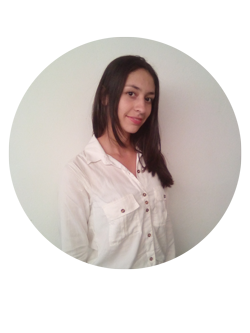
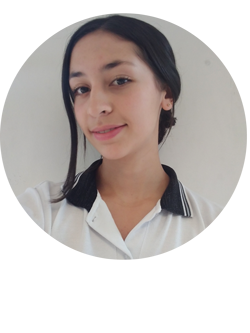
Se hizo la seccion de nosotros

diff --git a/creadores.html b/creadores.html
@@ -10,33 +10,39 @@
 	
 		
 		<section>
+			<div class="nubes">
+					<img src="img/nube1.png" alt="" class="nube nube1">
+					<img src="img/nube2.png" alt="" class="nube nube2">
+					<img src="img/nube3.png" alt="" class="nube nube3">
+					<img src="img/nube4.png" alt="" class="nube nube4">
+				</div>
 			<article class="tituloNosotros">
 				<h1 >Nosotros</h1>
 			</article>
 			<div class="creadores">
 				<article class="persona">
-					<img src="img/.png" alt="" class="foto">
-					<h3>Ana María Acevedo Henao</h3>
-					<p>anamariaacevedohenao@gmail.com</p>
-					<p>3148116848</p>
+					<img src="img/ana.png" alt="" class="foto">
+					<h3 class="ana">Ana María Acevedo Henao</h3>
+					<p class="ana">anamaria <br> acevedohenao@gmail.com</p>
+					<p class="ana">314 811 6848</p>
 				</article>
 				<article class="persona">
-					<img src="img/.png" alt="" class="foto">
+					<img src="img/mateo.png" alt="" class="foto">
 					<h3>Luis Mateo Cano Rojas</h3>
 					<p>luismateocanor@gmail.com</p>
-					<p>3104278887</p>
+					<p>310 427 8887</p>
 				</article>
 				<article class="persona">
-					<img src="img/.png" alt="" class="foto">
+					<img src="img/maria.png" alt="" class="foto">
 					<h3>Maria Elisa Muñoz Torres</h3>
-					<p>mariaelisa11@gmail.com</p>
-					<p>3215842780</p>
+					<p>mariaelisamt11@gmail.com</p>
+					<p>321 584 2780</p>
 				</article>
 				<article class="persona">
-					<img src="img/.png" alt="" class="foto">
+					<img src="img/andreu.png" alt="" class="foto">
 					<h3>Andreu Gutierrez López</h3>
 					<p>andreugutierrezlopez123@gmail.com</p>
-					<p>3045751093</p>
+					<p>304 575 1093</p>
 				</article>
 			</div>
 		</section>

diff --git a/css/estilos.css b/css/estilos.css
@@ -964,9 +964,11 @@ body{
 
 /*Creadores*/
 .fondoNosotros{
-	background: #52d8f7;
+	background: url(../img/fondo1.jpg);
 	width: 100%;
 	height: 100vh;
+	background-repeat:no-repeat;
+	background-size: cover;
 }
 .creadores{
 	display: flex;
@@ -974,18 +976,22 @@ body{
 	justify-content: space-between;
 	width: 80%;
 	margin: 0 auto;
+
 }
 .persona{
-	padding-left:15px;
-	padding-right: 15px;
-	margin-top: 20px;
+	padding-right: 35px;
+	margin-top: 60px;
+	z-index: 10;
 }
 .persona h3{
 	text-align: center;
+	font-family: Century Gothic;
 }
 .persona p{
 	text-align: center;
+	font-family: Century Gothic;
 }
+
 .tituloNosotros{
 	font-family: Century Gothic;
 	text-align: center;
